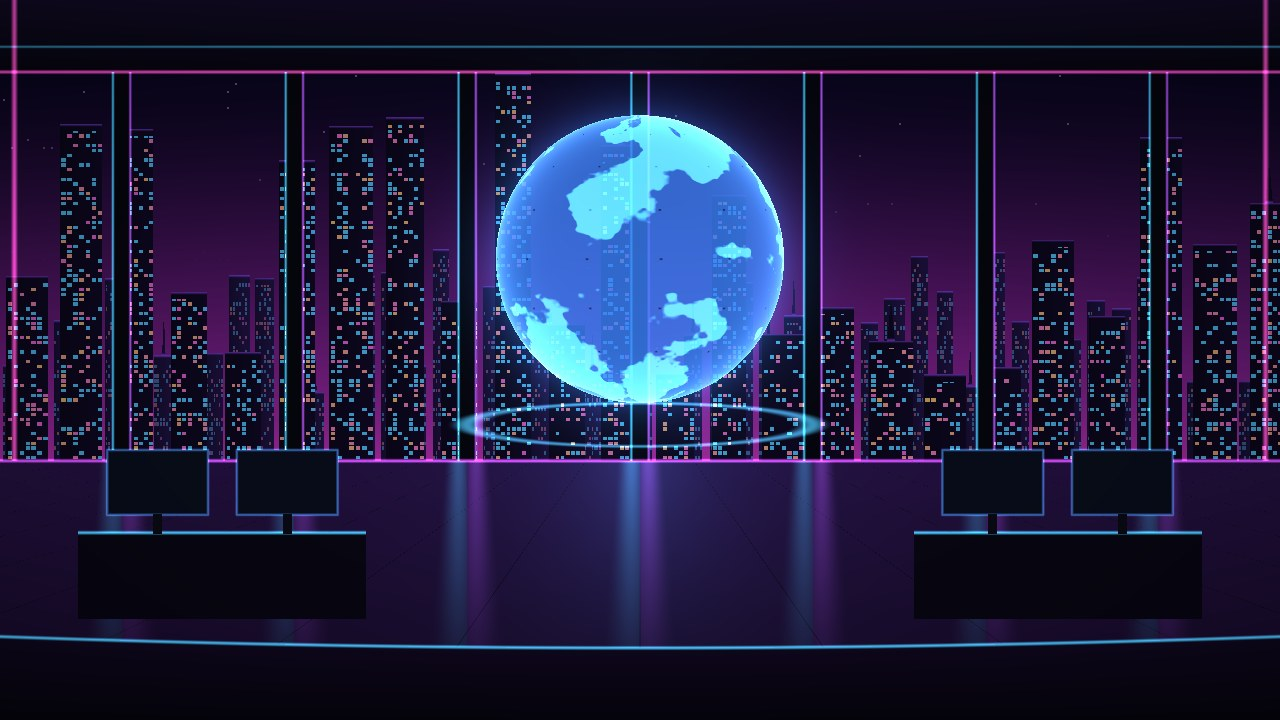
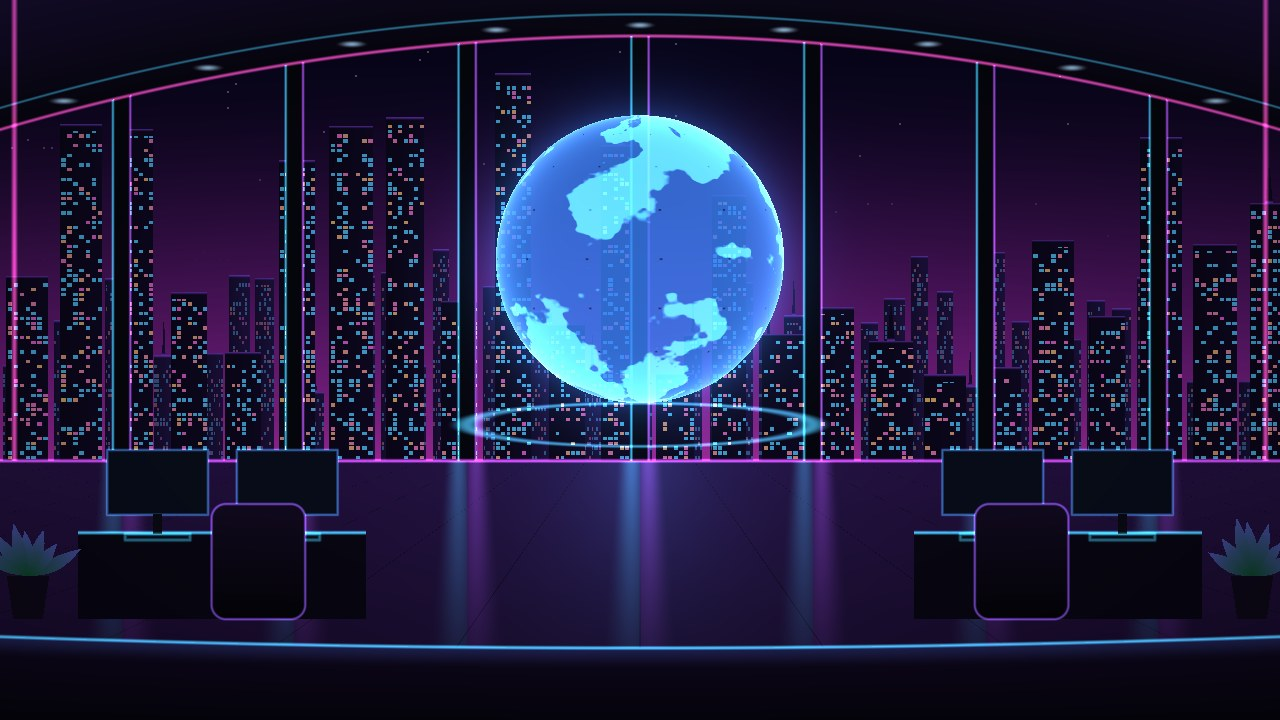
Neon HQ: arched windows, chairs and plants; today's own line under the title
The scene gets the picture's arched window top with ceiling lights, a chair and
keyboard at each desk and a plant beside it (screens still dark). Under the
title, the picture's "Tackling Tough Tasks Tuesday" becomes today's own line
from the computer's date, so it is never wrong on another day.

diff --git a/src/bau/ui/jarvis.html b/src/bau/ui/jarvis.html
@@ -289,9 +289,10 @@ button.chip.world{color:var(--cyan);border-color:var(--cyan);box-shadow:0 0 10px
 .hq-stage{position:relative;aspect-ratio:16/9;max-height:calc(100vh - 110px);margin:0 auto;container-type:inline-size;overflow:hidden;
   border-radius:10px;border:1px solid rgba(169,139,255,.7);box-shadow:0 0 22px rgba(169,139,255,.45);background:#05030d url(/art/hq) center/cover;color:#e8f4ff}
 .hq-stage>*{position:absolute}
-.hq-title{left:2%;top:2.5%;width:34%;font-family:"URW Gothic","Century Gothic",ui-sans-serif,sans-serif;line-height:1.05}
+.hq-title{left:2%;top:2.5%;width:40%;font-family:"URW Gothic","Century Gothic",ui-sans-serif,sans-serif;line-height:1.05}
 .hq-title b{display:block;font-size:4.2cqw;font-weight:800;letter-spacing:.04em;color:#bff3ff;text-shadow:0 0 .4cqw #3fd6ff,0 0 1.4cqw #3fd6ff}
 .hq-title span{display:block;font-size:1.7cqw;letter-spacing:.12em;text-transform:uppercase;color:#ffd27a;text-shadow:0 0 .6cqw #ff9a3c}
+.hq-title em{display:block;margin-top:.7cqw;white-space:nowrap;font:italic 600 1.15cqw/1.25 ui-sans-serif,system-ui,sans-serif;color:#f4ecff;text-shadow:0 0 .5cqw #a98bff}
 .hq-script{font-family:Z003,"URW Chancery L","Segoe Script","Brush Script MT",cursive;color:#ff8ae0;text-shadow:0 0 .3cqw #ff4fd1,0 0 1.2cqw #b04dff;line-height:1.15}
 .hq-top{right:2%;top:2%;width:33%;text-align:right;font-size:2.7cqw}
 .hq-bottom{right:2.5%;bottom:10%;width:25%;text-align:right;font-size:2.3cqw}
@@ -303,7 +304,7 @@ button.chip.world{color:var(--cyan);border-color:var(--cyan);box-shadow:0 0 10px
 .hq-panel ul{list-style:none;margin:0;padding:0;font-size:.95cqw;line-height:1.35}
 .hq-panel li{display:flex;gap:.5cqw;align-items:baseline;margin:0 0 .35cqw;overflow-wrap:anywhere}
 .hq-panel li i{font-style:normal;color:#9fb6d0;flex:1 1 auto;min-width:0}.hq-panel li b{flex:none;font-weight:600;text-transform:capitalize}
-.hq-agents{left:1.5%;top:21%;width:21%}.hq-status{right:1.5%;top:22%;width:21%}
+.hq-agents{left:1.5%;top:22.5%;width:21%}.hq-status{right:1.5%;top:22%;width:21%}
 .hq-tasks{right:1.5%;top:44%;width:21%;max-height:34%}.hq-rooms{left:1.5%;bottom:7.5%;width:27%}
 .hq-dot{flex:none;width:.85cqw;height:.85cqw;border-radius:50%;background:#55606e;align-self:center}
 .hq-dot.working,.hq-dot.done,.hq-dot.ok{background:#46f2a4;box-shadow:0 0 .5cqw #46f2a4}.hq-dot.waiting{background:#ffb340;box-shadow:0 0 .5cqw #ffb340}
@@ -528,7 +529,7 @@ code.cmd{display:block;background:var(--field);border:1px solid var(--line);padd
   <button class="act" id="w-to-hq" title="The neon headquarters" style="float:right">HQ</button>
   <h2>Operations world</h2>
   <div id="hqview" aria-label="The neon headquarters: every panel shows only real records"><div class="hq-stage">
-    <div class="hq-title"><b>BAUBSA JARVIS</b><span>Virtual Operations World</span></div>
+    <div class="hq-title"><b>BAUBSA JARVIS</b><span>Virtual Operations World</span><em id="hq-day"></em></div>
     <div class="hq-script hq-top">The Grind Continues…<br>What We Doing Now?<div id="hq-now"></div></div>
     <section class="hq-panel hq-agents"><h3>Jarvis agents</h3><ul id="hq-agents"></ul></section>
     <section class="hq-panel hq-status"><h3>System status</h3><ul id="hq-status"></ul></section>
@@ -2264,9 +2265,14 @@ vec3 hq(vec2 P, float ca, float t) {
   col *= 0.88;                                                                    // seen through glass
   if (post < 0.012) col = vec3(0.02, 0.02, 0.05);
   col += mix(vec3(0.25, 0.85, 1.0), vec3(0.75, 0.35, 1.0), step(0.0, fx)) * smoothstep(0.003, 0.0, abs(post - 0.012)) * 0.9 * br * step(sill, P.y);
-  if (P.y > 0.9) col = vec3(0.025, 0.02, 0.06) + vec3(0.1, 0.05, 0.2) * (P.y - 0.9) * 4.0;
-  col += vec3(1.0, 0.3, 0.75) * smoothstep(0.004, 0.0, abs(P.y - 0.9)) * br;
-  col += vec3(0.25, 0.85, 1.0) * smoothstep(0.003, 0.0, abs(P.y - 0.935)) * 0.6 * br;
+  float u = (P.x - cx) / (0.5 * ca), arch = 0.95 - 0.13 * u * u;               // the arched top
+  if (P.y > arch) col = vec3(0.025, 0.02, 0.06) + vec3(0.1, 0.05, 0.2) * (P.y - arch) * 4.0;
+  col += vec3(1.0, 0.3, 0.75) * smoothstep(0.004, 0.0, abs(P.y - arch)) * br;
+  col += vec3(0.25, 0.85, 1.0) * smoothstep(0.003, 0.0, abs(P.y - arch - 0.03)) * 0.6 * br;
+  for (int k = 0; k < 9; k++) {                                                   // ceiling lights
+    float lx = cx + (float(k) - 4.0) * 0.2, ly = 0.95 - 0.13 * pow((lx - cx) / (0.5 * ca), 2.0) + 0.015;
+    col += vec3(0.7, 0.9, 1.0) * smoothstep(0.012, 0.0, length((P - vec2(lx, ly)) * vec2(0.5, 2.0))) * 0.8;
+  }
   // the holographic globe: land from noise, a grid of meridians, a glowing rim, see-through
   vec2 C = vec2(cx, 0.64); float R = 0.2; vec2 d = (P - C) / R; float r2 = dot(d, d);
   col += vec3(0.2, 0.55, 1.0) * exp(-max(sqrt(r2) - 1.0, 0.0) * 6.0) * 0.35 * br;
@@ -2301,11 +2307,24 @@ vec3 hq(vec2 P, float ca, float t) {
       if (sc < 0.0) col = vec3(0.03, 0.05, 0.1);
       col += vec3(0.3, 0.6, 1.0) * smoothstep(0.003, 0.0, abs(sc)) * 0.6;
       if (sdBox(P - vec2(m.x, top + 0.012), vec2(0.006, 0.014)) < 0.0) col = vec3(0.04, 0.04, 0.08);
+      col += vec3(0.25, 0.85, 1.0) * smoothstep(0.004, 0.0, abs(sdBox(P - vec2(m.x, top - 0.006), vec2(0.045, 0.004)))) * 0.5;   // a keyboard's edge
+    }
+    vec2 ch = vec2(x0 - s * 0.05, top - 0.07);                                    // a chair in front
+    float back = sdBox(P - ch - vec2(0.0, 0.03), vec2(0.045, 0.06)) - 0.02;
+    if (back < 0.0) col = vec3(0.03, 0.02, 0.06) + vec3(0.06, 0.03, 0.1) * (P.y - ch.y) * 6.0;
+    col += vec3(0.6, 0.35, 1.0) * smoothstep(0.003, 0.0, abs(back)) * 0.7;
+    vec2 pot = vec2(x0 + s * 0.27, top - 0.09);                                   // a plant beside it
+    if (sdBox(P - pot, vec2(0.025 - (pot.y - P.y) * 0.15, 0.03)) < 0.0) col = vec3(0.05, 0.03, 0.09);
+    for (int l = 0; l < 7; l++) {
+      float a = 0.35 + float(l) * 0.4, ln = 0.06 + 0.03 * hash1(float(l) + s);
+      vec2 dir = vec2(cos(a), sin(a)), rel = P - pot - vec2(0.0, 0.03);
+      float al = dot(rel, dir), ac = abs(dot(rel, vec2(-dir.y, dir.x)) - al * al * 1.5 * sign(dir.x));
+      if (al > 0.0 && al < ln && ac < 0.009 * sin(3.1416 * al / ln)) col = mix(vec3(0.05, 0.25, 0.15), vec3(0.4, 0.3, 0.9), al / ln * 0.6);
     }
   }
   // the front desk across the bottom, and pink neon down the far walls
   float fd = 0.1 + 0.02 * (P.x - cx) * (P.x - cx);
-  if (P.y < fd) col = mix(vec3(0.02, 0.015, 0.05), vec3(0.06, 0.03, 0.12), P.y / fd);
+  if (P.y < fd) col = mix(vec3(0.02, 0.015, 0.05), vec3(0.06, 0.03, 0.12), P.y / fd) + vec3(0.25, 0.4, 0.8) * smoothstep(0.03, 0.0, fd - P.y) * 0.25;
   col += vec3(0.25, 0.85, 1.0) * smoothstep(0.004, 0.0, abs(P.y - fd)) * br;
   col += vec3(1.0, 0.3, 0.75) * smoothstep(0.006, 0.0, min(abs(P.x - 0.02), abs(P.x - ca + 0.02))) * step(sill, P.y) * br;
   return col * (1.0 - 0.35 * pow(length((P - vec2(cx, 0.5)) / vec2(ca, 1.0)) * 1.3, 2.0));
@@ -3537,7 +3556,11 @@ function hqFigure(a, lead) { const b = el("button", "hq-who" + (lead ? " lead" :
   const tag = el("span", "hq-tag", a.name); tag.appendChild(el("small", null, a.state)); b.appendChild(tag);
   b.onclick = () => { showFloor(); W_SEL = a; worldInfo(a); loadList(); if (REDUCED) drawWorld(0); };
   return b; }
+// The picture's "Tackling Tough Tasks Tuesday" is true one day a week: today's own line instead.
+const HQ_DAYS = ["Systems Check Sunday", "Mission Monday", "Tackling Tough Tasks Tuesday", "Work Hard Wednesday",
+  "Thinking Big Thursday", "Finish Strong Friday", "Side Hustle Saturday"];
 function renderHQ() { if (!OPS) return; const S = OPS.system;
+  $("hq-day").textContent = `“${HQ_DAYS[new Date().getDay()]}” on the BAU BSA Coffee Grind`;
   const now = $("hq-now"); now.textContent = OPS.now ? `Jarvis: ${OPS.now.task}` + (OPS.now.state === "working" ? "" : " (waiting for you)") : "Jarvis: nothing right now";
   const ag = $("hq-agents"); ag.textContent = ""; OPS.roster.forEach(r => hqRow(ag, r.light, r.name, r.state));
   const st = $("hq-status"); st.textContent = "";

diff --git a/tests/test_world.py b/tests/test_world.py
@@ -371,3 +371,6 @@ def test_the_page_lays_out_the_neon_headquarters_from_records():
     assert "All systems healthy" in page and "nothing right now" in page
     assert "Online" not in page.split('id="hqview"')[1].split("</div></div></div>")[0]
     assert "openRoom(" in page                               # a tile opens its room on the floor
+    days = page.split("const HQ_DAYS = [")[1].split("];")[0]
+    assert days.count('"') == 14 and "Tuesday" in days.split(",")[2]   # today's line, Sunday first
+    assert "new Date().getDay()" in page

diff --git a/docs/WORLD.md b/docs/WORLD.md
@@ -40,6 +40,8 @@ never the data: every line is a real record, the same ones the floor reads.
 - **Current tasks:** every agent with a job, with its real state: working first, then waiting
   for you, stopped, done.
 - **What We Doing Now?:** under the words, Jarvis's real task right now, or "nothing right now".
+- **Under the title:** a line for today ("Tackling Tough Tasks Tuesday" only on Tuesdays,
+  "Finish Strong Friday" on Fridays, and so on), from this computer's date.
 - **Our virtual world:** your eight rooms, each a picture of that room from the floor with how
   many agents are in it. Click one to open it on the floor, zoomed in.
 - **The women:** each character stands in her pose for her real job: working, waiting for you,
